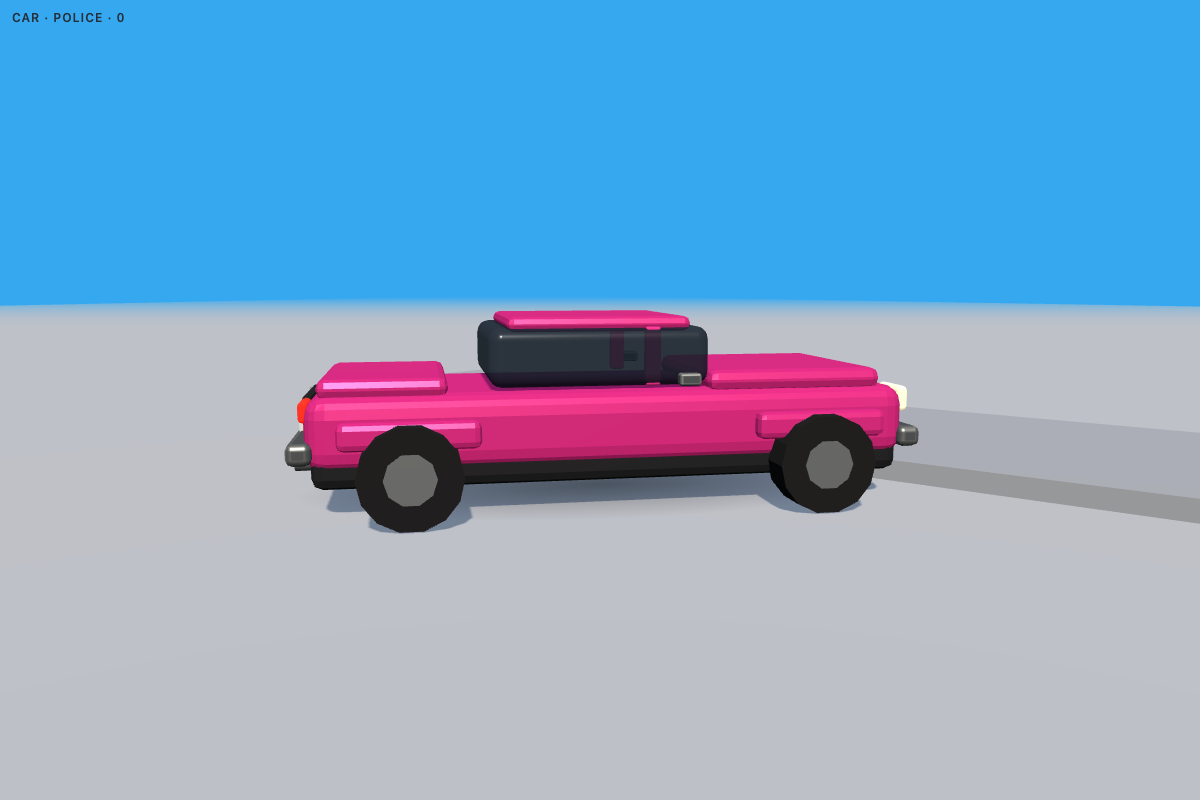
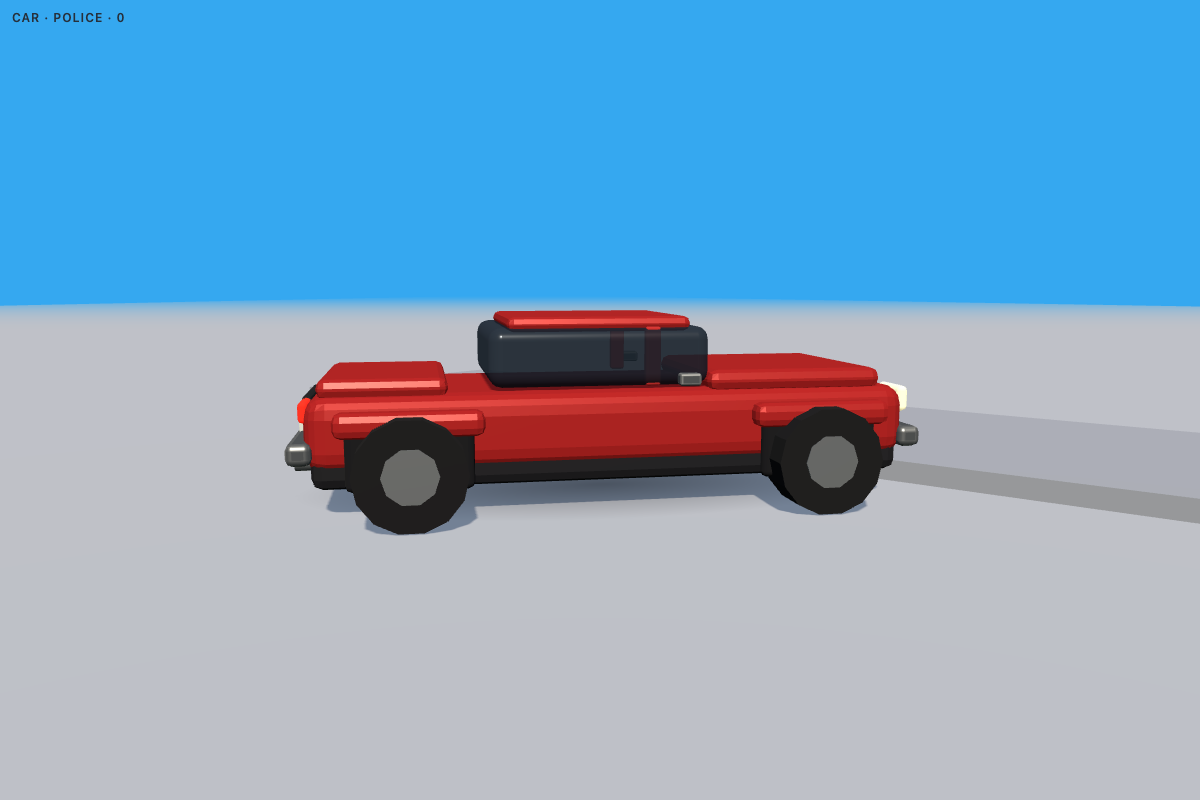
docs+shots: reference comparison table, QA results, new screenshots

diff --git a/README.md b/README.md
@@ -1,20 +1,22 @@
 # Dude Theft Auto — Three.js sandbox
 
 Fan-made, browser-based demake of the *Dude Theft Wars* formula: open-world city, drivable cars,
-ragdoll pedestrians, shooting, wanted level and police chases. Everything 3D is **generated in code**
-(no model files, no image textures — building/window/shopfront textures are drawn on canvas at runtime).
+ragdoll pedestrians, shooting, wanted level and police chase. Everything 3D is **generated in code**
+(no model files: buildings, cars, characters and textures are built procedurally at runtime).
 
-![street](screenshots/street.png)
+Repo: https://github.com/himanusia/dude-theft-three (private)
+
+![street](screenshots/hero-street.png)
 
 ## Run it
 
 ```bash
-./run.sh          # serves on http://localhost:8765 and opens the browser
+./run.sh                 # serves on http://localhost:8765 and opens the browser
 # or
-python3 serve.py 8765
+python3 serve.py 8765    # threaded server, listens on IPv4 + IPv6 loopback
 ```
 
-Needs a local HTTP server (ES modules + audio fetch do not work from `file://`).
+Needs a local HTTP server (ES modules + audio `fetch` do not work from `file://`).
 Desktop Chrome/Safari/Firefox with WebGL2. No build step, no dependencies to install.
 
 ## Controls
@@ -32,68 +34,104 @@ Desktop Chrome/Safari/Firefox with WebGL2. No build step, no dependencies to ins
 | `R` | Reload |
 | `T` | Skip time of day |
 | `M` | Mute |
-| `Esc` | Pause (pointer unlock) |
+| `Esc` | Pause / resume |
+
+## Art direction vs the reference
+
+Assets were built by diffing against real *Dude Theft Wars* screenshots (kept locally in
+`reference/`, not redistributed) and re-shooting the models in a neutral studio view
+(`tools/asset-viewer.html`) after every change.
+
+| Asset | Reference target | Result | What changed |
+|---|---|---|---|
+| Character | 1.75 m, head ≈ ¼ of height, no neck, blocky limbs, decal face | **8/10** | Head rebuilt to 0.44 m cube (4.4 heads tall), bevels 0.07 → 0.035 so faces read flat, chunky hands/shoes, 256² painted faces (eyes/brows/mouth), six expressions incl. sunglasses + moustache, five hair silhouettes, short-sleeve variant, nose geometry |
+| Muscle car | 4.7 × 1.85 m, low, long hood, big wheels, open cockpit | **9/10** | Beveled body via `RoundedBoxGeometry`, wheel radius 0.34 → 0.40 with wheel wells + fender flares, full-width raked framed windshield, cockpit tub/dash/steering wheel, "POLICE" door decals, mirrors, plate, exhausts, hood stripes |
+| City block | light facades, blue glass, storefronts, signage | **7/10** | Reference palette (sky `#35A8F0`, asphalt `#8D86A8`, sidewalk `#C8C8D0`, grass `#37C24A`), three window styles, parapets, readable shop signs ("PIZZA", "GYM", "24/7"…), billboards, textured asphalt + paving, bins/hydrants/benches/traffic lights |
+| Ragdoll | chunky body, reads as the same dude | **7/10** | Limb radius 0.075 → 0.095, cube head, flat-shaded materials matching the character palette |
+
+Residual gap: the reference has hand-authored props (interiors, hats, weapon models, bespoke
+vehicle silhouettes). This is a procedural interpretation, not a 1:1 copy.
+
+## Verification
+
+Automated harness (`puppeteer-core`) drives the real page and asserts **state**, not screenshots:
+
+```
+19/19 checks pass — boot, walk, sprint, jump+land, sidewalk step-up, enter/exit vehicle,
+acceleration, shooting + ammo, punch, ragdoll settle, police spawn/approach, death respawn,
+cash pickup, night lighting, pause/resume, perf budget, zero console errors
+```
+
+Current numbers: ~112 fps (headless SwiftShader), ~1.0–1.1k draw calls, ~79k triangles,
+60 pedestrians, 9 parked cars, 16 traffic cars, 136 colliders.
+
+Bugs found and fixed in this pass: per-frame damage on car/ped collisions (now cooldown-gated),
+`Esc` pause not firing without pointer lock, vehicles able to park on top of the player, cars
+driving through each other, missing `pickups` on the debug handle, ghosted toast overlap.
 
 ## What is implemented
 
-- **City**: 7×7 block grid, ~350 m across. Procedural towers with canvas-generated window + shopfront
-  textures, parks, parking lots, street lamps (4 real point lights re-parked on the nearest lamps),
-  sidewalk trees, props, stunt ramps, crosswalks. Day/night cycle (5 min) with emissive windows,
-  street lighting, stars, moonlit hemisphere.
-- **On foot**: third-person controller, sprint, jump, sidewalk step-up, building collision.
-- **Vehicles**: arcade bicycle-model physics (accel / drag / speed-dependent steering / handbrake),
-  collisions, damage, wreck explosions, air time off ramps, headlight at night, engine + tyre audio.
-  9 parked cars + 12 ambient traffic cars that navigate the road grid.
-- **Combat**: hitscan pistol with 12-round mag, reload, tracers, muzzle flash, sparks, hitmarker,
-  2.5D ray-vs-AABB against buildings and sphere tests against peds/cars.
-- **Ragdolls**: 11-point Verlet ragdoll with distance constraints, ground friction and building
-  push-out. Pedestrians convert to ragdolls when shot, punched or hit by a car (launch velocity
-  from the impact direction).
-- **Police**: 0–5 wanted stars from crimes, police cruisers spawn on the nearest road and chase,
-  shoot at 2+ stars, arrest when they pin you on foot, wanted level decays over ~30 s.
-- **Economy / objectives**: cash pickups, cash for ragdolling peds, hospital bill on death,
-  fine on arrest, 4-step objective chain (steal a car → cause chaos → reach 3 stars → lose the cops).
-- **HUD**: cash, health, wanted stars, ammo, speedometer, prompt line, toasts, live minimap
-  (blocks, roads, peds, cops, traffic, pickups, player heading), FPS counter.
+- **City**: 7×7 block grid, ~350 m across. Procedural towers (3 window styles, parapets, billboards,
+  readable shop signs, awnings), parks, parking lots, street lamps (4 point lights re-parked on the
+  nearest lamps each frame), textured asphalt/pavement, bins, hydrants, benches, traffic lights,
+  sidewalk trees, stunt ramps, crosswalks. Day/night cycle (~5 min) with emissive windows,
+  street lighting, stars, moonlight.
+- **On foot**: third-person controller, sprint, jump, sidewalk step-up, building collision,
+  solid vehicles, slow health regen out of combat.
+- **Vehicles**: arcade bicycle-model physics, collisions, damage, wreck explosions, air time off
+  ramps, headlights at night, engine/tyre audio, 4 body types (sedan, muscle convertible, van, taxi)
+  plus police cruisers with lightbar and door livery.
+- **Combat**: hitscan pistol, 12-round mag, reload, tracers, muzzle flash, sparks, hitmarker,
+  ray-vs-AABB against buildings and sphere tests against peds/cars.
+- **Ragdolls**: 11-point Verlet ragdoll, ground friction, building push-out, fade + cleanup.
+- **Police**: 0–5 wanted stars, cruisers spawn on the nearest road and chase, shoot at 2+ stars,
+  arrest when they pin you on foot, wanted level decays over ~30 s.
+- **Economy/objectives**: cash pickups, cash for ragdolling peds, hospital bill, arrest fine,
+  4-step objective chain (steal a car → cause chaos → reach 3 stars → lose the cops).
+- **HUD**: objective card, cash chip, wanted stars, health, ammo, speedometer, contextual prompt,
+  toast stack, rounded minimap with FOV wedge and compass, FPS counter.
 
-## What is *not* implemented (honest scope)
+## What is not implemented (honest scope)
 
-This is a vertical slice, not the full game: no interior models, no missions/story, no multiplayer,
-no planes/helis/bikes, no melee weapon variety, no character/vehicle customisation, no save system,
-no mobile touch controls, and the police AI is a straight-line chase (no pathfinding around blocks,
-so they sometimes scrape walls). Audio is a small CC0 kit, not a full sound design pass.
+No interiors, no story missions, no multiplayer, no planes/helis/bikes, no weapon variety,
+no character customisation, no save system, no touch controls, and police AI is a straight-line
+chase (no pathfinding, so cruisers scrape walls). Audio is a small CC0 kit, not a full sound pass.
 
 ## Assets & licences
 
-3D geometry, materials and textures: **procedural, generated at runtime** (`src/city.js`,
-`src/character.js`, `src/car.js`). No third-party meshes.
+3D geometry/materials/textures: procedural (`src/city.js`, `src/character.js`, `src/car.js`,
+`src/ragdoll.js`; `vendor/RoundedBoxGeometry.js` is vendored from three.js examples).
 
 | Asset | Source | Licence |
 |---|---|---|
 | SFX: impacts, punches, footsteps, metal, glass | Kenney — *Impact Sounds* | CC0 |
 | SFX: laser shots, pickups, UI clicks | Kenney — *Digital Audio* | CC0 |
-| SFX: engine loop, explosions, metal hits | Kenney — *Sci-Fi Sounds* | CC0 |
-| Music: "Funkorama", "Sneaky Snitch", "Wallpaper" | Kevin MacLeod (incompetech.com) | CC BY 4.0 — attribution required |
-| Siren, tyre screech | synthesized with WebAudio | — |
+| SFX: engine loop, explosions, rifle | Kenney — *Sci-Fi Sounds* | CC0 |
+| Music: "Funkorama", "Sneaky Snitch", "Wallpaper" | Kevin MacLeod (incompetech.com) | CC BY 4.0 |
+| Siren, tyre screech, canvas textures | generated at runtime | — |
 
-Music attribution (keep it if you publish):
-*"Funkorama", "Sneaky Snitch", "Wallpaper" — Kevin MacLeod (incompetech.com), licensed under Creative Commons: By Attribution 4.0 (CC BY 4.0).*
+Music attribution (keep if you publish):
+*"Funkorama", "Sneaky Snitch", "Wallpaper" — Kevin MacLeod (incompetech.com), licensed under
+Creative Commons: By Attribution 4.0 (CC BY 4.0).*
 
-Fan prototype. Not affiliated with Poxel Studios; *Dude Theft Wars* is their trademark.
+Fan prototype, not affiliated with Poxel Studios; *Dude Theft Wars* is their trademark.
+Reference screenshots in `reference/` are third-party promo images used only for private
+comparison and are git-ignored.
 
 ## Source map
 
 ```
-index.html          HUD markup, CSS, import map
-src/main.js         bootstrap, input, camera, player, combat, objectives, loop
-src/city.js         world generation, buildings, roads, props, day/night, lights
-src/car.js          vehicle mesh + arcade physics
-src/traffic.js      ambient traffic AI on the road grid
-src/character.js    procedural humanoid + walk/aim animation (shared geometry cache)
-src/ragdoll.js      verlet ragdoll
-src/npc.js          pedestrians (walk / flee / die)
-src/police.js   wanted level, pursuit, arrest
-src/hud.js          DOM HUD + minimap
-src/audio.js        WebAudio sfx/bgm/engine/siren
-src/utils.js        math, ray helpers, canvas textures, contact shadow
+index.html                     HUD markup, CSS, import map
+src/main.js                    bootstrap, input, camera, player, combat, objectives, loop
+src/city.js                    world generation, buildings, roads, props, day/night, lights
+src/car.js                     vehicle mesh + arcade physics
+src/traffic.js                 ambient traffic AI on the road grid
+src/character.js               procedural humanoid + walk/aim animation (shared asset cache)
+src/ragdoll.js                 verlet ragdoll
+src/npc.js                     pedestrians (walk / flee / die)
+src/police.js                  wanted level, pursuit, arrest
+src/hud.js                     DOM HUD + minimap
+src/audio.js                   WebAudio sfx / bgm / engine / siren
+src/utils.js                   math, ray helpers, canvas textures, rounded box, contact shadow
+tools/asset-viewer.html        studio view used to compare assets with the reference
 ```
